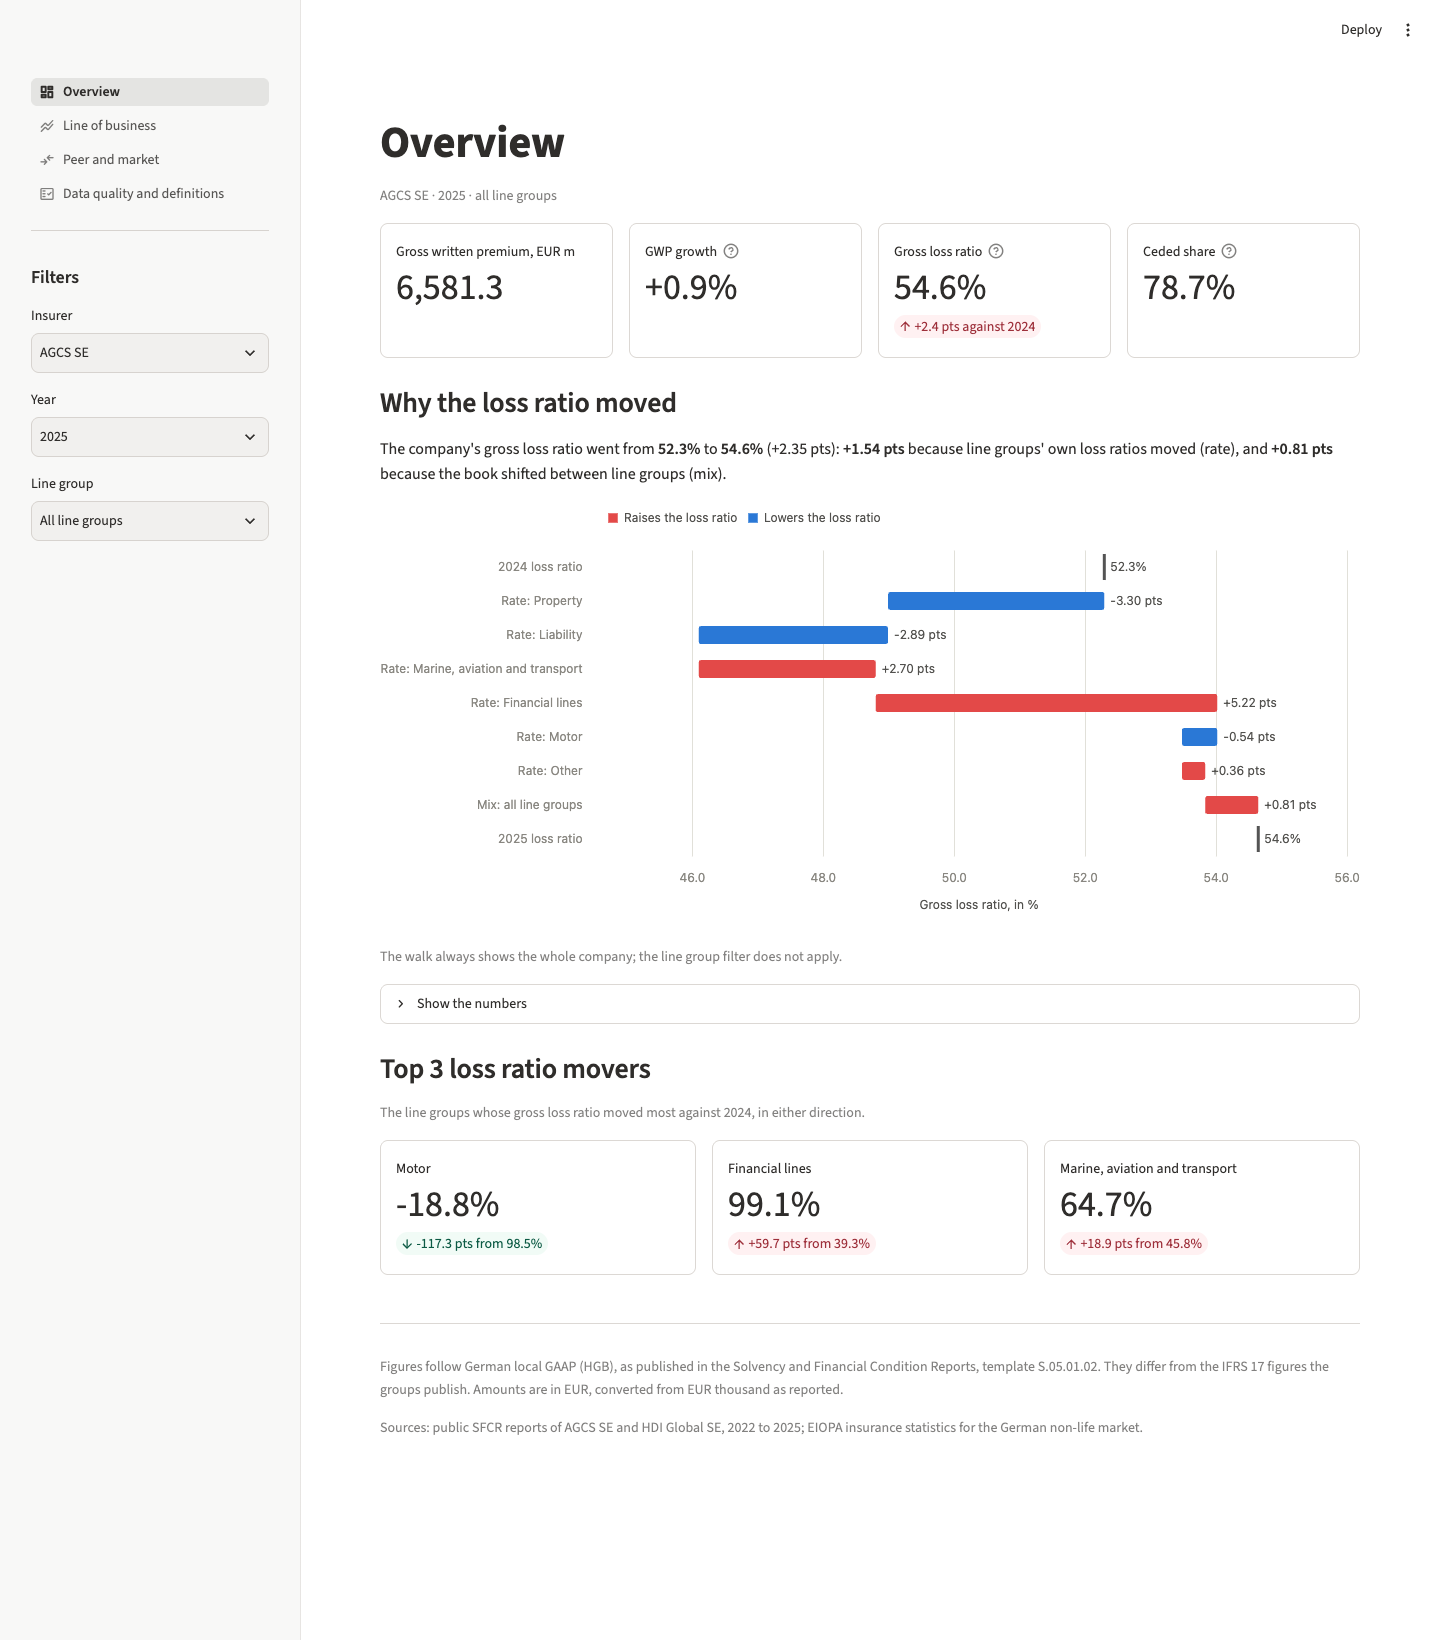
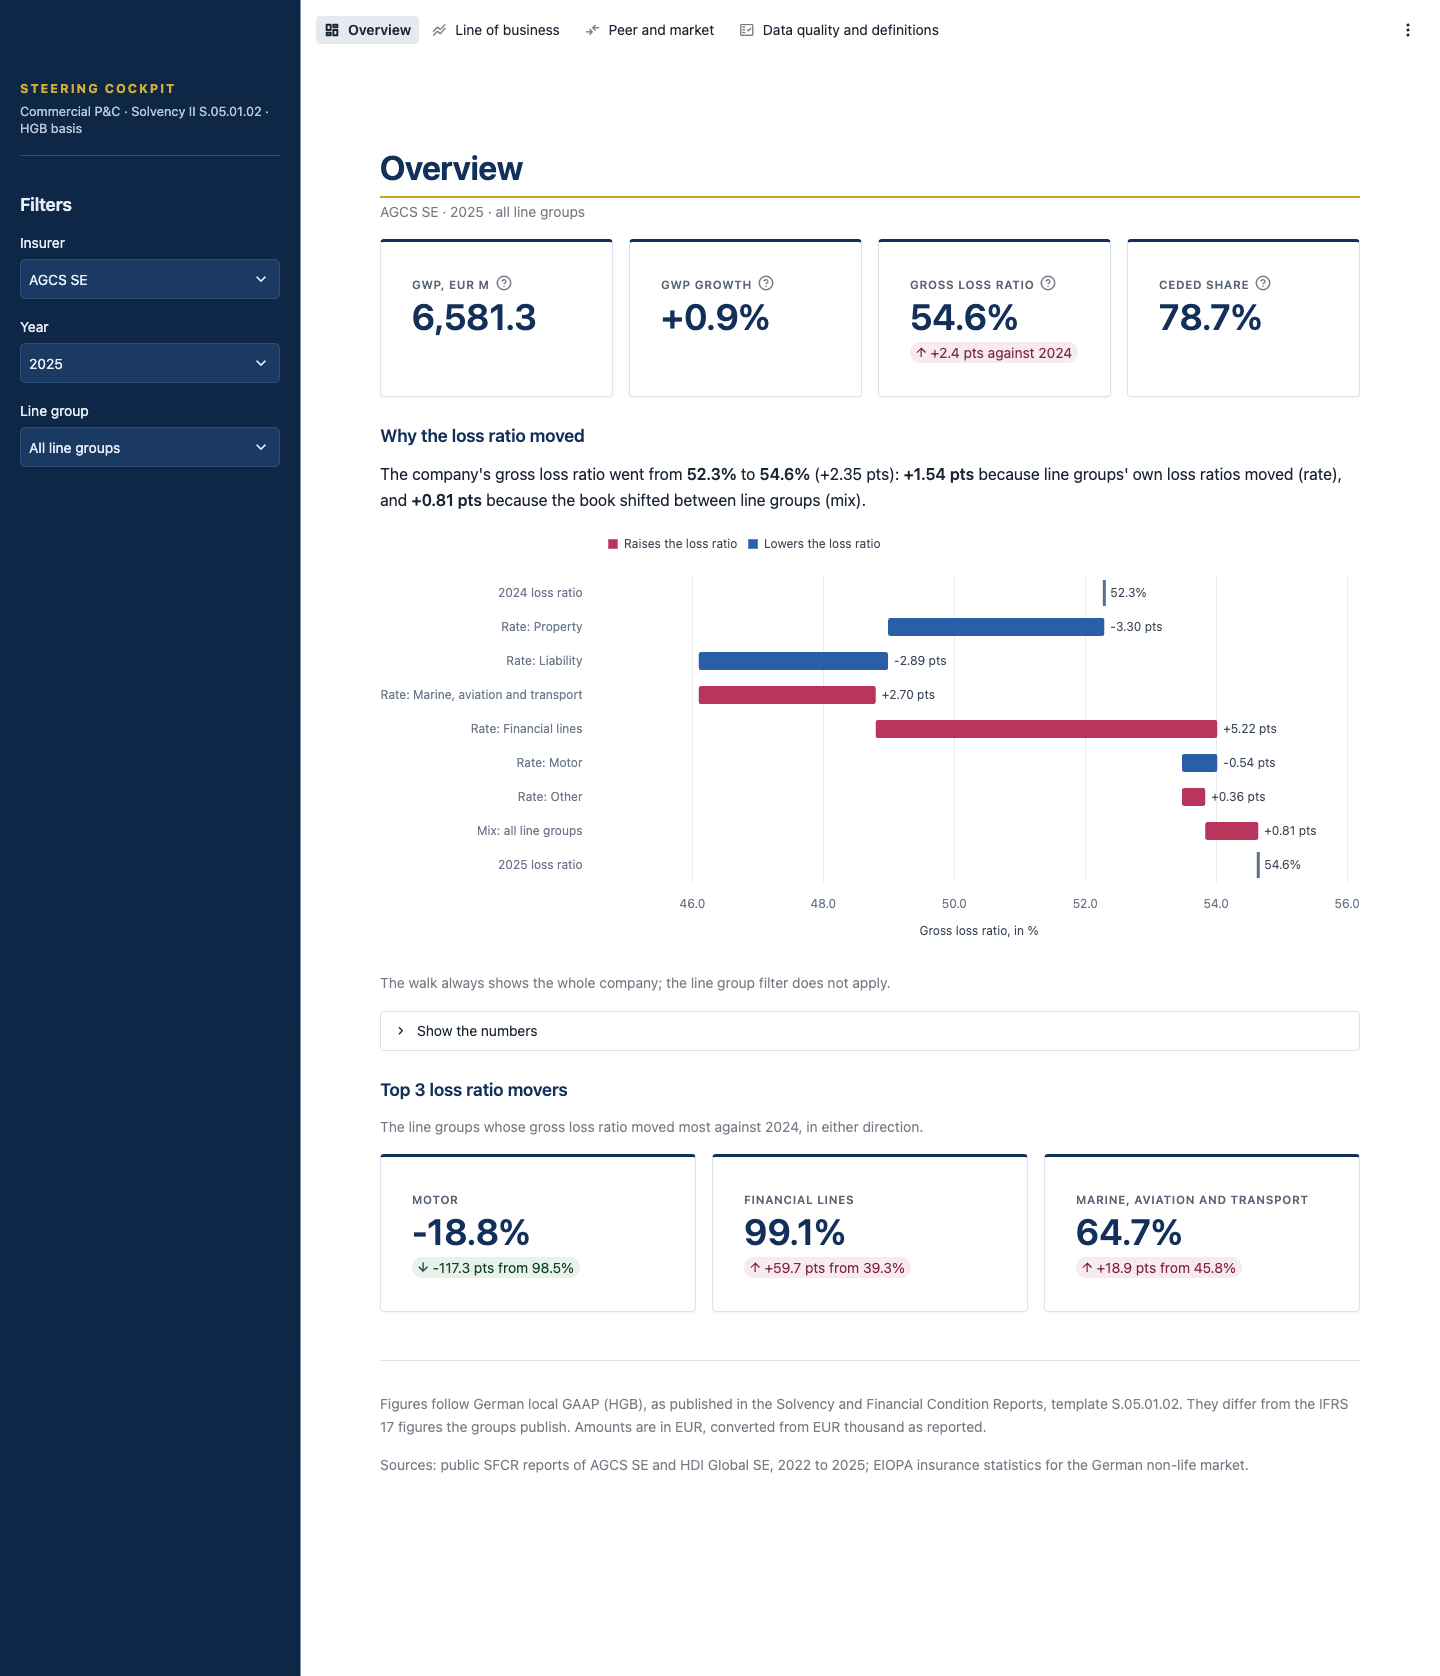
fixd UI

diff --git a/app/ui.py b/app/ui.py
@@ -68,12 +68,86 @@ def sidebar_slicers() -> Slicers:
 
 
 def chart_theme() -> charts.Theme:
-    """Chart colors for the theme the viewer has on. Light when it cannot be told."""
-    try:
-        mode = st.context.theme.type
-    except Exception:
-        mode = None
-    return charts.theme_for(mode)
+    return charts.THEME
+
+
+STYLE = """
+<style>
+/* Page title: navy with a thin gold rule under it. */
+[data-testid="stMainBlockContainer"] h1 {
+    color: #12305a;
+    letter-spacing: -0.01em;
+    border-bottom: 2px solid #c9a227;
+    padding-bottom: 0.45rem;
+    margin-bottom: 0.2rem;
+}
+[data-testid="stMainBlockContainer"] h2,
+[data-testid="stMainBlockContainer"] h3 {
+    color: #12305a;
+}
+/* KPI cards: white, hairline border, navy top edge, small uppercase label. */
+[data-testid="stMetric"] {
+    background: #ffffff;
+    border: 1px solid #dde3ea;
+    border-top: 3px solid #12305a;
+    border-radius: 4px;
+    padding: 0.85rem 1rem 0.9rem 1rem;
+    box-shadow: 0 1px 2px rgba(18, 48, 90, 0.06);
+}
+[data-testid="stMetricLabel"] p {
+    text-transform: uppercase;
+    letter-spacing: 0.06em;
+    font-size: 0.72rem;
+    font-weight: 600;
+    color: #5a6678;
+}
+[data-testid="stMetricValue"] {
+    color: #12305a;
+}
+/* Tables: aligned figures. */
+[data-testid="stDataFrame"] {
+    font-variant-numeric: tabular-nums;
+}
+/* Expanders and bordered containers: the same hairline as the cards. */
+[data-testid="stExpander"] details {
+    border-color: #dde3ea;
+    border-radius: 4px;
+}
+/* Sidebar brand block. */
+.cockpit-brand {
+    padding: 0.2rem 0 1.1rem 0;
+    margin-bottom: 0.6rem;
+    border-bottom: 1px solid #2c4c78;
+}
+.cockpit-brand .name {
+    color: #d4af37;
+    font-size: 0.78rem;
+    font-weight: 700;
+    letter-spacing: 0.16em;
+    text-transform: uppercase;
+}
+.cockpit-brand .scope {
+    color: #b8c6d9;
+    font-size: 0.8rem;
+    margin-top: 0.25rem;
+    line-height: 1.35;
+}
+</style>
+"""
+
+BRAND = """
+<div class="cockpit-brand">
+  <div class="name">Steering cockpit</div>
+  <div class="scope">Commercial P&amp;C · Solvency II S.05.01.02 · HGB basis</div>
+</div>
+"""
+
+
+def apply_style() -> None:
+    """The institutional look on top of the theme in .streamlit/config.toml."""
+    st.html(STYLE)
+    with st.sidebar:
+        st.html(BRAND)
 
 
 # Number formats. A missing value is shown as "n/a", never as zero.

diff --git a/app/charts.py b/app/charts.py
@@ -1,9 +1,9 @@
 """Charts of the dashboard, built with Altair.
 
-One palette for every chart. A line group or company keeps its color on every
-page and under every filter. Colors were checked for colorblind safety in both
-light and dark mode; three light-mode colors have low contrast against the
-surface, which is why every chart has a table view below it.
+One palette for every chart, in the navy-and-gold look of the app. A line group or
+company keeps its color on every page and under every filter. The colors were checked
+for colorblind safety on the white page. The gold has low contrast against white,
+which is why every chart has its numbers in a table below it.
 """
 
 from __future__ import annotations
@@ -15,7 +15,7 @@ import pandas as pd
 
 from queries import LINE_GROUPS
 
-FONT = 'system-ui, -apple-system, "Segoe UI", sans-serif'
+FONT = '-apple-system, BlinkMacSystemFont, "Helvetica Neue", "Segoe UI", Arial, sans-serif'
 
 
 @dataclass(frozen=True)
@@ -32,35 +32,19 @@ class Theme:
     neutral: str  # context series, such as the 3-year average
 
 
-LIGHT = Theme(
-    surface="#fcfcfb",
-    ink="#0b0b0b",
-    ink_secondary="#52514e",
-    ink_muted="#898781",
-    grid="#e1e0d9",
-    axis="#c3c2b7",
-    categorical=("#2a78d6", "#eb6834", "#1baf7a", "#eda100", "#e87ba4", "#008300"),
-    lowers="#2a78d6",
-    raises="#e34948",
-    neutral="#898781",
+THEME = Theme(
+    surface="#ffffff",
+    ink="#12305a",
+    ink_secondary="#3b4757",
+    ink_muted="#6b778a",
+    grid="#e8ecf1",
+    axis="#c9d1db",
+    # navy, gold, teal, burgundy, violet, green
+    categorical=("#2a5fa8", "#d08a12", "#109a8c", "#b8365c", "#8a63c8", "#4a8f20"),
+    lowers="#2a5fa8",
+    raises="#b8365c",
+    neutral="#8a94a6",
 )
-
-DARK = Theme(
-    surface="#1a1a19",
-    ink="#f0efec",
-    ink_secondary="#c3c2b7",
-    ink_muted="#898781",
-    grid="#2c2c2a",
-    axis="#383835",
-    categorical=("#3987e5", "#d95926", "#199e70", "#c98500", "#d55181", "#0ca30c"),
-    lowers="#3987e5",
-    raises="#e66767",
-    neutral="#898781",
-)
-
-
-def theme_for(mode: str | None) -> Theme:
-    return DARK if mode == "dark" else LIGHT
 
 
 def _finish(chart: alt.TopLevelMixin, theme: Theme) -> alt.TopLevelMixin:

diff --git a/tests/test_app.py b/tests/test_app.py
@@ -149,7 +149,7 @@ def test_overview_cards_equal_the_sql_views(cockpit):
 
     cards = metrics(run_app())
 
-    assert cards["Gross written premium, EUR m"][0] == f"{float(gwp) / 1000:,.1f}" == "6,581.3"
+    assert cards["GWP, EUR m"][0] == f"{float(gwp) / 1000:,.1f}" == "6,581.3"
     assert cards["GWP growth"][0] == f"{growth:+.1%}"
     assert cards["Gross loss ratio"] == (f"{loss_ratio:.1%}", f"{change:+.1f} pts against 2024")
     assert cards["Ceded share"][0] == f"{ceded:.1%}"
@@ -169,7 +169,7 @@ def test_overview_follows_the_slicers(cockpit):
         "WHERE g.insurer = 'HDI Global SE' AND g.year = 2024 AND g.line_group = 'Property'"
     ).fetchone()
     cards = metrics(at)
-    assert cards["Gross written premium, EUR m"][0] == f"{float(gwp) / 1000:,.1f}"
+    assert cards["GWP, EUR m"][0] == f"{float(gwp) / 1000:,.1f}"
     assert cards["Gross loss ratio"][0] == f"{loss_ratio:.1%}"
 
 
@@ -213,7 +213,7 @@ def test_overview_line_without_figures_says_so_instead_of_showing_zero(cockpit):
     at = run_page("page_overview", "HDI Global SE", "HDI", 2022, "Financial lines")
 
     assert "reports no figures for Financial lines in 2022" in at.info[0].value
-    assert "Gross written premium, EUR m" not in metrics(at)
+    assert "GWP, EUR m" not in metrics(at)
 
 
 # Line of business

diff --git a/app/page_overview.py b/app/page_overview.py
@@ -66,7 +66,11 @@ def render(slicers: ui.Slicers) -> None:
         prior = f"against {slicers.year - 1}"
         cards = st.columns(4)
         cards[0].metric(
-            "Gross written premium, EUR m", ui.meur(row["gwp_teur"]), border=True, height="stretch"
+            "GWP, EUR m",
+            ui.meur(row["gwp_teur"]),
+            help="Gross written premium in EUR million.",
+            border=True,
+            height="stretch",
         )
         cards[1].metric(
             "GWP growth",

diff --git a/app/cockpit_app.py b/app/cockpit_app.py
@@ -26,6 +26,7 @@ if not queries.warehouse_exists():
     )
     st.stop()
 
+ui.apply_style()
 slicers = ui.sidebar_slicers()
 
 page = st.navigation(
@@ -55,7 +56,8 @@ page = st.navigation(
             icon=":material/fact_check:",
             url_path="data-quality",
         ),
-    ]
+    ],
+    position="top",
 )
 page.run()
 ui.footer()

diff --git a/README.md b/README.md
@@ -32,7 +32,7 @@ You need Python 3.11 or newer and `make`.
 4. Open the dashboard: `make app`
 5. Run the tests: `make test`
 
-`make app` starts the dashboard and opens it in your browser at `http://localhost:8501`. Press Ctrl+C in the terminal to stop it.
+`make app` starts the dashboard and opens it in your browser at `http://localhost:8510`. Press Ctrl+C in the terminal to stop it; Ctrl+Z only pauses it and keeps the port busy.
 
 `make setup` uses `python3.12`. If your Python has another name, pass it: `make setup BOOTSTRAP_PYTHON=python3.11`.
 
@@ -66,7 +66,7 @@ python3.12 -m venv .venv
 .venv/bin/python -m cockpit.pipeline
 .venv/bin/python -m cockpit.export_excel
 .venv/bin/python -m cockpit.kpi_docs
-.venv/bin/python -m streamlit run app/cockpit_app.py
+.venv/bin/python -m streamlit run app/cockpit_app.py --server.port 8510
 .venv/bin/python -m pytest
 ```
 
